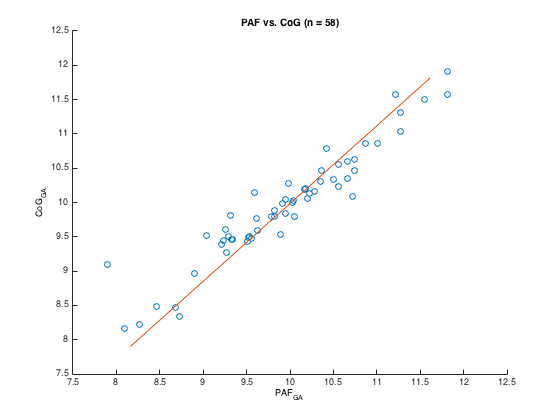
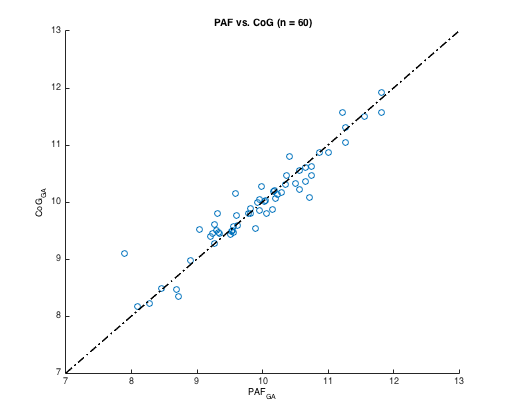
update to 63 participants

diff --git a/iaf_manu.md b/iaf_manu.md
@@ -139,7 +139,7 @@ While this property of the CRB method need not be a problem for ERD-type applica
 ### 1.4 Parametric curve-fitting approaches to alpha rhythm quantification
 Finally, we turn briefly to a promising line of research that attempts to quantify the spectral features of EEG data, and in particular spectral peaks, by means of statistical curve-fitting techniques. 
 Chiang and colleagues [@chiang2008] developed an algorithm (with corresponding implementation in C) that parameterises alpha-band peaks via a two-step procedure: Peaks are first identified and parameterised via the fitting of a Gaussian function, before being fine-tuned in relation to the spread of fitted estimates across multiple electrode sites. 
-Chiang and colleagues [@chiang2011] and van Albada and Robinson [@vanalbada2013] later demonstrated the potential utility of such automated routines by applying this general technique to a dataset comprising over 1400 individuals. <!-- AC: i haven't got to the end of this para yet -->
+Chiang and colleagues [@chiang2011] and van Albada and Robinson [@van_albada2013] later demonstrated the potential utility of such automated routines by applying this general technique to a dataset comprising over 1400 individuals. <!-- AC: i haven't got to the end of this para yet -->
 
 Given the manifest advantages of these analysis tools, it is somewhat puzzling that they do not yet appear to have gained widespread currency in the contemporary IAF literature [for instance, neither @goljahani2012, nor @bazanova2014, mention the development of such algorithms in their reviews of IAF methods; although cf. @haegens2014, for a notable counterexample]. 
 One possibility is that researchers are simply unaware of the existence of these methods, since the bulk of the literature in which they have been applied is concerned with broader questions of spectral modeling, rather than the quantification of IAF per se [@haegens2014's investigation of PAF variability is again the exception]. 
@@ -385,41 +385,45 @@ The eyes-closed resting-state EEG was recorded while the participant sat alone i
 ### 3.1 Empirical EEG data
 
 #### 3.1.1 Global performance of the IAF estimation routine
-<!-- AC: following reflects analysis up to S.60 only -->Post-experiment resting-state EEG recordings were missing for three participants.
-These individuals thus contributed only one set of channel estimates each leaving a grand total of 1053 PSDs to estimate across the sample (540 pre- and 513 post-experiment spectra).
-From these data, a total 900 PAF estimates (pre = 459, post = 441) and 973 CoG estimates (pre = 496, post = 477) were generated across all included channels.
+Post-experiment resting-state EEG recordings were missing for three participants.
+These individuals thus contributed only one set of channel estimates each, leaving a grand total of 1107 PSDs to estimate across the sample (567 pre- and 540 post-experiment spectra).
+From these data, a total 936 PAF estimates (pre = 477, post = 459) and 1009 CoG estimates (pre = 514, post = 495) were extracted from all included channels.
 
 [Fig_stacked_chans](#num_chan_ests) shows the relative distribution of channel estimates furnished across all participants.
 This figure indicates that the estimation routine derived PAF and CoG estimates from most (if not all) available channels in the majority of cases.
-Of those participants who registered a limited number of channel estimates, two (#29 and #50) failed surpass the minimal threshold (i.e. $cMin = 3$) required for $PAF_M$ estimation. 
+Of those participants who registered a limited number of channel estimates, three (#29, #50, and #63) failed surpass the minimal threshold (i.e. $cMin = 3$) required for $PAF_M$ estimation. 
 This result indicates that these participants should be excluded from all PAF-related analyses on account of the general lack of a clear alpha-band peak in the majority of their channel spectra.
 One of these participants (#29) did however register sufficient $f_1$ and $f_2$ estimates to enable calculation of the post-experiment $CoG_M$, and is therefore still eligible for inclusion in analyses involving this estimator of IAF.
-Visual inspection of these individuals' PSD plots confirmed that both sets of channel data demonstrated little evidence of any distinct alpha peak component (although there is perhaps some suggestion in participant #50's spectra of a nominal peak centred about 11 Hz; [Fig_no_pafs](#no_pafs), right panel).
+Participant #63 was the only individual from whom no estimate of IAF was produced.
+Visual inspection of these individuals' PSD plots confirmed that both sets of channel data demonstrated little evidence of any distinct alpha peak component (although there is perhaps some suggestion in participant #50's spectra of a nominal peak centred about 11 Hz; [Fig_no_pafs](#no_pafs), central panel).
 
-![*Fig_stacked_chans.* Stacked bar chart displaying the number of channels from which PAF (lower half) and CoG (upper half) estimates were derived across participants. PAF and CoG estimates are further divided according to order of EEG recording. Note, only the pre-experiment recording was available for participants #26, #56, and #57.](figs/stacked_chans.png){#stacked_chans}
+![*Fig_stacked_chans.* Stacked bar chart displaying the number of channels from which PAF (lower half) and CoG (upper half) estimates were derived across participants. PAF and CoG estimates are further divided according to order of EEG recording. Note, only the pre-experiment recording data were available for participants #26, #56, and #57.](figs/stacked_chans.png){#stacked_chans}
 
-![*Fig_no_pafs.* Representative channel PSDs (three superposed spectra) from two sets of EEG recordings (left panel: participant #29; right panel: participant #50) in which the PAF estimation routine failed to detect evidence of substantive alpha rhythm activity. Shaded areas indicate range of the alpha peak search window $W_\alpha$, red line indicates $minP$ threshold.](figs/no_pafs.png){#no_pafs}
+![*Fig_no_pafs.* Representative channel PSDs (three superposed spectra) from three sets of EEG recordings (left panel: participant #29; central panel: participant #50; right panel: participant #63) in which the PAF estimation routine failed to detect evidence of substantive alpha rhythm activity. Shaded areas indicate range of the alpha peak search window $W_\alpha$, red line indicates $minP$ threshold calculated for the first plotted channel (blue PSD function).](figs/no_pafs.png){#no_pafs}
 
 #### 3.1.2 Estimator distributions & correlation coefficients
-Consistent with previous reports [@citations], mean estimates of IAF were centred around 10 Hz, with the majority of estimates falling in the range of 9 to 11 Hz.
+Consistent with previous reports [@kopruner1984;@klimesch1990], mean estimates of IAF were centred about 10 Hz, with the majority of estimates falling in the range of 9 to 11 Hz.
 $PAF_M$ and $CoG_M$ were similarly distributed across both sets of recordings (see histograms, [Fig_pre_post](#pre_post)).
 Intraclass correlation coefficients ($ICC_{3,k}$: $PAF_M = .96; CoG_M = .97$) indicate that variance in $PAF_M$ and $CoG_M$ estimates can be predominantly attributed to interindividual differences across the sample, rather than intraindividual differences between recordings (see scatterplots, [Fig_pre_post](#pre_post)).
-These data are therefore in accord with previous studies that have reported evidence of the IAF's high temporal stability and interindividual variability (at least in the context of eyes-closed resting-state recordings).
+These data are therefore in accord with previous studies reporting evidence of the IAF's high temporal stability (at least within the same recording session) and interindividual variability (at least in the context of eyes-closed resting-state recordings).
 
-![*Fig_pre_post.* *Top and central rows*: Histograms displaying distribution of $PAF_M$ (left panels) and $CoG_M$ (right panels) estimates across recordings. *Bottom row*: Scatterplots showing high degree of agreement between corresponding estimators of IAF calculated from pre- and post-experiment resting-state recordings. Red line indicates least-squares best fit to data.](figs/pre_post.png){#pre_post}
+![*Fig_pre_post.* *Top and central rows*: Histograms displaying distribution of $PAF_M$ (left panel) and $CoG_M$ (right panel) estimates across recordings. *Bottom row*: Scatterplots showing high degree of agreement between corresponding estimators of IAF calculated from pre- and post-experiment resting-state recordings. Broken line indicates perfect positive correlation between pre- and post-experiment IAF estimates.](figs/pre_post.png){#pre_post}
 
-Final analysis were conducted on grand-averaged alpha peak and gravity estimates ($PAF_{GA}$ and $CoG_{GA}$, respectively).
+Final analyses were conducted on grand-averaged alpha peak and gravity estimates ($PAF_{GA}$ and $CoG_{GA}$, respectively).
 Note that, in cases where only one channel mean estimate was registered, this value was included as the participant's grand average.
 Kernal density estimation of the probability density function underlying $PAF_{GM}$ data suggested that sample estimates are well-characterised by a Gaussian distribution ([Fig_GA_distribs](#GA_distribs)).
-($CoG_{GA}$) however showed some evidence of deviation from the Gaussian distribution in both tails.
+This is in keeping with previous efforts to quantify the distribution of PAF [@klimesch1996].
+$CoG_{GA}$ however showed some evidence of deviation from the Gaussian distribution due to heavy tails.
 To the best of our knowledge, this is the first study to examine the distributional properties of the $CoG$.
 It is therefore unclear how our estimation procedure compares to previous methods of calculating alpha-band $CoG$ in this regard.
 One might however speculate that estimating IAF via the $CoG$ increases the likelihood of relatively more extreme values, on account of the latter's sensitivity to skewness within the region of the PSD defined by the individual alpha band.
+In spite of this apparent difference in distributional characteristics, $PAF_{GA}$ and $CoG_{GA}$ produced remarkably consistent results ($ICC_{3,k} =.97$; $R^2 = .90$).
+This finding, which extends that reported in a smaller sample by Jann and colleagues [@jann2010], lends support to the claim that these two estimators tap into the same fundamental oscillatory process.
 
-![*Fig_GA_distribs. *Top row*: Probability density of $PAF_{GA}$ (left panel) and $CoG_{GA}$ (right panel) following application of a Gaussian kernal density estimator. *Bottom row*: Normal probability plots indicating how well $PAF_{GA}$ and $CoG_{GA}$ estimates approximate a normal distribution (indicated by the broken red line). While $PAF_{GA}$ estimates vary in fashion consistent with an underlying normal distribution, $CoG_{GA}$ shows evidence of a somewhat heavier-tailed distribution.*](figs/GA_distribs.png){#GA_distribs}
+![*Fig_GA_distribs. *Top row*: Probability density of $PAF_{GA}$ (left panel) and $CoG_{GA}$ (right panel) following application of a Gaussian kernal density estimator. *Bottom row*: Normal probability plots indicating how well $PAF_{GA}$ and $CoG_{GA}$ estimates approximate a normal distribution (indicated by the broken red line). While $PAF_{GA}$ estimates vary in fashion consistent with an underlying normal distribution, the $CoG_{GA}$ estimator shows evidence of a somewhat heavier-tailed distribution.*](figs/GA_distribs.png){#GA_distribs}
 
 
-![*Fig_intercorrel.*](figs/intercorrel.png){#intercorrel}
+![*Fig_intercorrel.* Scatterplot displaying correlation between grand averaged PAF and CoG estimates across all participants for whom both estimators were calculated. Broken line indicates perfect positive correlation between IAF estimators.](figs/intercorrel.png){#intercorrel}
 
 
 
